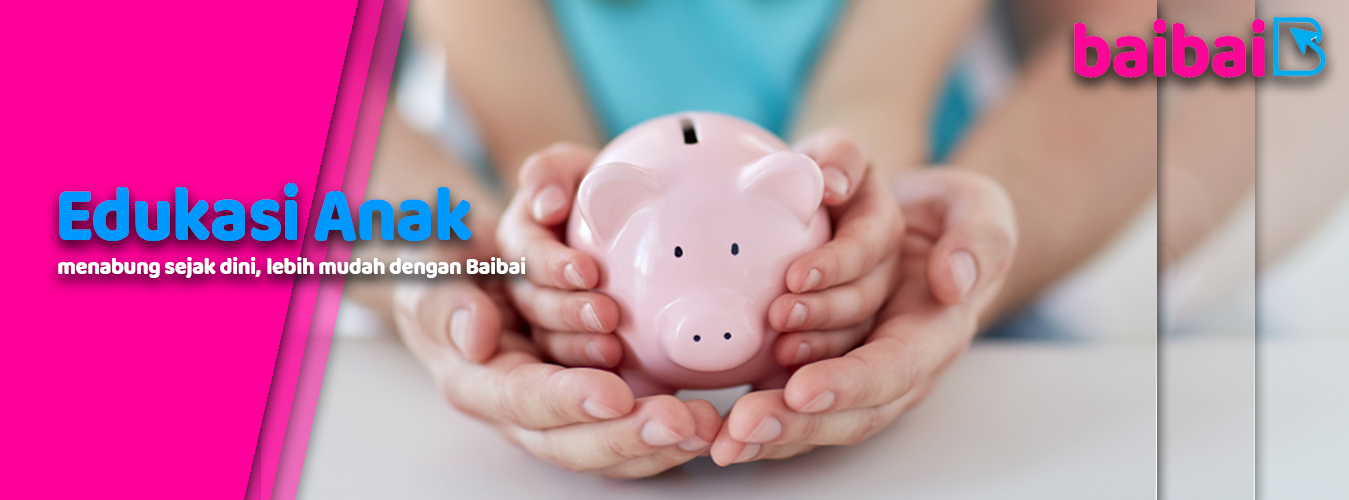
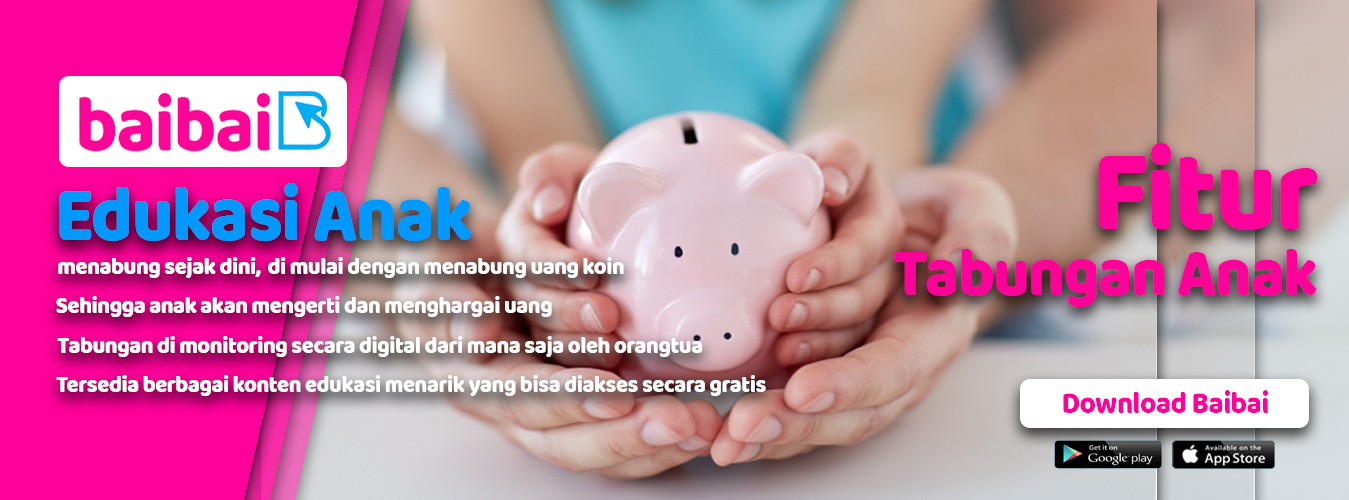
change image

diff --git a/index.html b/index.html
@@ -56,7 +56,7 @@
   	<div class="slider">
   		<ul class="slides">
   			<li>
-  				<img src="img/slider/conten1.jpg">
+  				<img class="img" src="img/slider/conten1.jpg">
   				<div class="caption left-align">
   				</div>
   			</li>
@@ -85,13 +85,11 @@
   				</div>
   			</li>
 
-  			<!-- <li>
-  				<img src="img/slider/7.png">
+  			<li>
+  				<img src="img/slider/content6.jpg">
   				<div class="caption center-align">
-  					<h3>Modern Responsive Websites</h3>
-  					<h5 class="light grey-text text-lighten-3">Intelligent Websites. Real Result</h5>
   				</div>
-  			</li> -->
+  			</li>
 
   		</ul>
   	</div>

diff --git a/css/style.css b/css/style.css
@@ -16,7 +16,6 @@
 
 .brand-logo img {
 	height: 30px;
-	position: left;
 }
 
 ul li a:hover {
@@ -38,17 +37,6 @@ ul li a:hover {
 	text-shadow: 1px 1px 3px rgba(0, 0, 0, 0.5);
 }
 
-.slider .slides {
-	background-color: transparent;
-}
-
-.slider .slides li img {
-	width: 100%;
-	background-position: center;
-	background-size: 100% auto;
-	background-repeat: no-repeat;
-}
-
 .parallax-container {
 	height: 20%;
 }
@@ -66,9 +54,6 @@ ul li a:hover {
 section,
 footer {
 	padding: 10px 0;
-}
-footer .p {
-	font-size: 10px;
 }
 
 @media only screen and (max-width: 768px) {

diff --git a/js/main.js b/js/main.js
@@ -2,10 +2,12 @@
 const sidenav = document.querySelectorAll('.sidenav');
 M.Sidenav.init(sidenav);
 
+// Slider
 const slider = document.querySelectorAll('.slider');
 M.Slider.init(slider, {
 	indicators: false,
 	height: 500,
+	full_width: true,
 	transition: 600,
 	interval: 3000
 });
